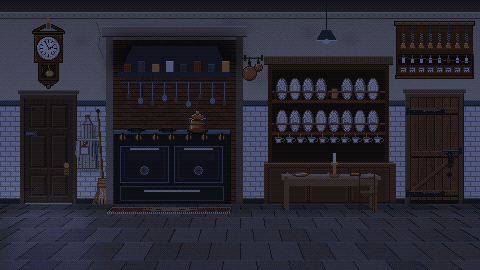
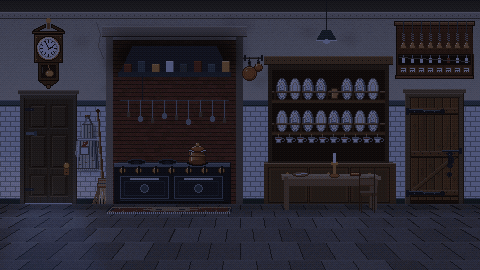
Lower the Harrington kitchen range to hip height
The range stood as tall as the characters. Cut it to 42 units, re-lay out the
front (tap rail, two ovens, plinth), hang the utensil rail nearer the hob and
fit the Range hotspot to the new art.

Changed region(s): [[0.2188, 0.2963, 0.5, 0.7407]]

diff --git a/tools/art/mansion.py b/tools/art/mansion.py
@@ -1260,18 +1260,21 @@ def paint_kitchen(lit=False, gas=False):
         d.rectangle([x, 72 - hgt, x + 7, 71], fill=c)
         d.line([(x, 72 - hgt), (x + 7, 72 - hgt)], fill=mul(c, 1.3))
         d.line([(x + 7, 72 - hgt), (x + 7, 71)], fill=mul(c, 0.6))
-    d.line([(rx0 + 30, 76), (rx0 + 30, 96)], fill=hx("2a2a2c"))  # flue pipe stays
-    # utensils hanging from a rail under the hood
-    d.line([(rx0 + 8, 82), (rx1 - 8, 82)], fill=hx("5a5a60"))
+    rail = 100
+    d.line([(rx0 + 30, 76), (rx0 + 30, rail)], fill=hx("2a2a2c"))  # flue pipe stays
+    # utensils hanging from a rail over the hob, in reach of the cook
+    d.line([(rx0 + 8, rail), (rx1 - 8, rail)], fill=hx("5a5a60"))
     for i, x in enumerate(range(rx0 + 16, rx1 - 10, 12)):
-        d.line([(x, 82), (x, 96 + (i % 3) * 3)], fill=hx("8a8a90"))
+        drop = rail + 14 + (i % 3) * 3
+        d.line([(x, rail), (x, drop)], fill=hx("8a8a90"))
         if i % 2:
-            d.ellipse([x - 2, 95 + (i % 3) * 3, x + 2, 100 + (i % 3) * 3], fill=hx("8a8a90"))
+            d.ellipse([x - 2, drop - 1, x + 2, drop + 4], fill=hx("8a8a90"))
         else:
-            d.rectangle([x - 1, 94 + (i % 3) * 3, x + 1, 98 + (i % 3) * 3], fill=hx("6a5a40"))
-    # the range body, drawn in perspective so it stands out of the recess
-    R.box(img, rx0 + 6, rx1 - 6, 0, 74, 0, 24, hx("1e1e22"), top=hx("34343a"), side=hx("141416"))
-    a, b = R.P(rx0 + 6, 74, 24), R.P(rx1 - 6, 74, 24)
+            d.rectangle([x - 1, drop - 2, x + 1, drop + 2], fill=hx("6a5a40"))
+    # the range body, hob at hip height, drawn in perspective so it stands out of the recess
+    RH = 42
+    R.box(img, rx0 + 6, rx1 - 6, 0, RH, 0, 24, hx("1e1e22"), top=hx("34343a"), side=hx("141416"))
+    a, b = R.P(rx0 + 6, RH, 24), R.P(rx1 - 6, RH, 24)
     fx0, fx1, fy0 = int(a[0]), int(b[0]), int(a[1])
     fy1 = int(R.P(0, 0, 24)[1])
     d = ImageDraw.Draw(img)
@@ -1279,10 +1282,10 @@ def paint_kitchen(lit=False, gas=False):
     d.rectangle([fx0, fy0 + 1, fx1, fy0 + 3], fill=hx("6a6a70"))
     # burners on the hob
     for cx in (rx0 + 26, rx0 + 56, rx0 + 86):
-        p = R.P(cx, 74, 12)
+        p = R.P(cx, RH, 12)
         d.ellipse([p[0] - 9, p[1] - 3, p[0] + 9, p[1] + 2], fill=hx("161618"), outline=hx("4a4a50"))
         d.ellipse([p[0] - 4, p[1] - 1, p[0] + 4, p[1] + 1], fill=hx("2a2a2e"))
-    _range_pan(d, R.P(rx0 + 86, 74, 12))  # a copper stock pot on the back burner
+    _range_pan(d, R.P(rx0 + 86, RH, 12))  # a copper stock pot on the back burner
     # the brass gas taps along the front rail
     TAPS = []
     for i in range(7):
@@ -1295,17 +1298,18 @@ def paint_kitchen(lit=False, gas=False):
             d.line([(tx - 5, fy0 + 7), (tx + 5, fy0 + 7)], fill=hx("1a1a1a"), width=2)
         else:
             d.line([(tx, fy0 + 3), (tx, fy0 + 11)], fill=hx("1a1a1a"), width=2)
-    # two oven doors and a warming drawer, nickel handles and trim
+    # two oven doors over a plinth, nickel handles and trim
     ow = (fx1 - fx0 - 18) // 2
+    ot, ob = fy0 + 13, fy1 - 8
     for k in range(2):
         ox0 = fx0 + 6 + k * (ow + 6)
-        d.rectangle([ox0, fy0 + 16, ox0 + ow, fy0 + 52], fill=hx("26262a"), outline=hx("6a6a70"))
-        d.rectangle([ox0 + 4, fy0 + 20, ox0 + ow - 4, fy0 + 48], outline=hx("3a3a40"))
-        d.rectangle([ox0 + 8, fy0 + 24, ox0 + ow - 8, fy0 + 30], fill=hx("2e2e34"))
-        d.line([(ox0 + 10, fy0 + 18), (ox0 + ow - 10, fy0 + 18)], fill=hx("b8b8c0"), width=2)
-        d.ellipse([ox0 + ow // 2 - 4, fy0 + 36, ox0 + ow // 2 + 4, fy0 + 44], fill=hx("4a4a50"), outline=hx("8a8a90"))
-    d.rectangle([fx0 + 6, fy0 + 56, fx1 - 6, fy1 - 6], fill=hx("222226"), outline=hx("5a5a60"))
-    d.line([(fx0 + 30, fy0 + 60), (fx1 - 30, fy0 + 60)], fill=hx("b8b8c0"), width=2)
+        d.rectangle([ox0, ot, ox0 + ow, ob], fill=hx("26262a"), outline=hx("6a6a70"))
+        d.rectangle([ox0 + 4, ot + 5, ox0 + ow - 4, ob - 3], outline=hx("3a3a40"))
+        d.line([(ox0 + 10, ot + 2), (ox0 + ow - 10, ot + 2)], fill=hx("b8b8c0"), width=2)
+        my = (ot + 5 + ob - 3) // 2
+        d.ellipse([ox0 + ow // 2 - 4, my - 4, ox0 + ow // 2 + 4, my + 4], fill=hx("4a4a50"), outline=hx("8a8a90"))
+    d.rectangle([fx0 + 6, ob + 2, fx1 - 6, fy1 - 4], fill=hx("161618"))
+    d.line([(fx0 + 6, ob + 2), (fx1 - 6, ob + 2)], fill=hx("4a4a50"))
     for x in (fx0 + 2, fx1 - 4):
         d.rectangle([x, fy1 - 4, x + 2, fy1], fill=hx("0e0e10"))
     # ---- copper pans on the wall between range and dresser ----
